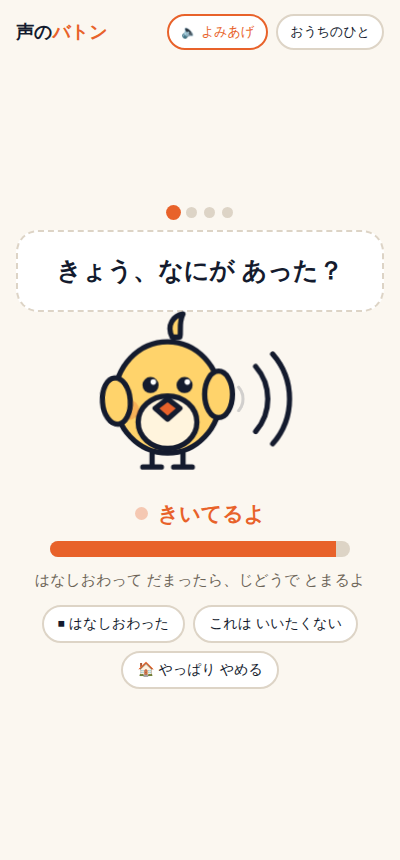
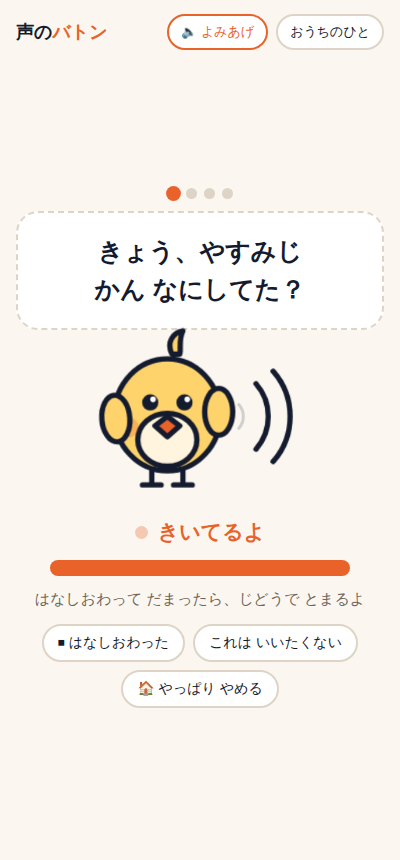
「どうだった？」をやめ、続きを求める質問にする
「そのとき、どうだった？」に子どもが返せるのは「たのしかった」
「ふつう」「わかんない」の3つだけ。体験をまとめて評価しろという
大人の質問で、6択フォームと同じ構造だった。

- 評価を求めない。続きを求める
  2問目「それで、どうなったの？」 3問目「そのとき、なんて いったの？」
  続きとセリフを求めると、気持ちは聞かなくても本人の言葉で出てくる
- 入口を「きょう、きゅうしょく なに たべた？」など、ほぼ確実に
  答えられるものに変更
- 直前の録音の長さで質問を分岐。あまり話さなかった子には
  「それ、だれと いたの？」のようにもっと具体的なことを聞く
  文字起こしに頼らないので iPhone でも効く

Claude-Session: https://claude.ai/code/session_01FDsueusesyAsHMPhH392Fy

diff --git a/index.html b/index.html
@@ -472,17 +472,34 @@ const FACE_ACK = {
   wakaranai:"わからなくて いいよ。そのままで いいよ。"
 };
 
-/* 3往復。ボタンは押さない。質問は短く、2問目で気持ちを本人の声で言ってもらう。 */
+/* 3往復。ボタンは押さない。
+   大事なきまり：評価を求めない。続きを求める。
+   「どうだった？」は体験をまとめて採点しろという大人の質問で、子どもは
+   「たのしかった」「ふつう」「わかんない」しか返せない。
+   かわりに「それで、どうなったの？」と続きを求めると、気持ちは勝手に出てくる。 */
 const OPENERS = [
+  "きょう、きゅうしょく なに たべた？",   // ほぼ確実に答えられる入口
   "きょう、なにして あそんだ？",
-  "きょう、なにが あった？",
-  "きょう、だれと いた？",
-  "きょう、いちばん おぼえてるのは なに？"
+  "きょう、だれと あそんだ？",
+  "きょう、やすみじかん なにしてた？"
 ];
-const Q2 = "そのとき、どうだった？";
-const Q3 = "ほかに、はなしたいこと ある？";
+// たくさん話した子には「続き」を、あまり話さなかった子にはもっと具体的なことを聞く
+const Q2_LONG  = "それで、どうなったの？";
+const Q2_SHORT = "それ、だれと いたの？";
+const Q3_LONG  = "そのとき、なんて いったの？";
+const Q3_SHORT = "きょう、いちばん おもしろかったのは なに？";
 const NODS = ["そっか。","うんうん。","ちゃんと きいてるよ。","はなして くれて ありがとう。"];
-const QUESTIONS = [ () => OPENERS[Math.floor(Math.random()*OPENERS.length)], () => Q2, () => Q3 ];
+
+// 直前にどれだけ話したかで分ける。文字起こしに頼らないので iPhone でも効く。
+function talkedALot(){
+  const t = sess && sess.turns.length ? sess.turns[sess.turns.length-1] : null;
+  return !!(t && t.ms > 4000);
+}
+const QUESTIONS = [
+  () => OPENERS[Math.floor(Math.random()*OPENERS.length)],
+  () => talkedALot() ? Q2_LONG : Q2_SHORT,
+  () => talkedALot() ? Q3_LONG : Q3_SHORT
+];
 
 /* ═══ 2. ほぞん ═══════════════════════════════════════════════════ */
 const DB_NAME = "koe-no-baton", DB_VER = 2, STORE = "records";
